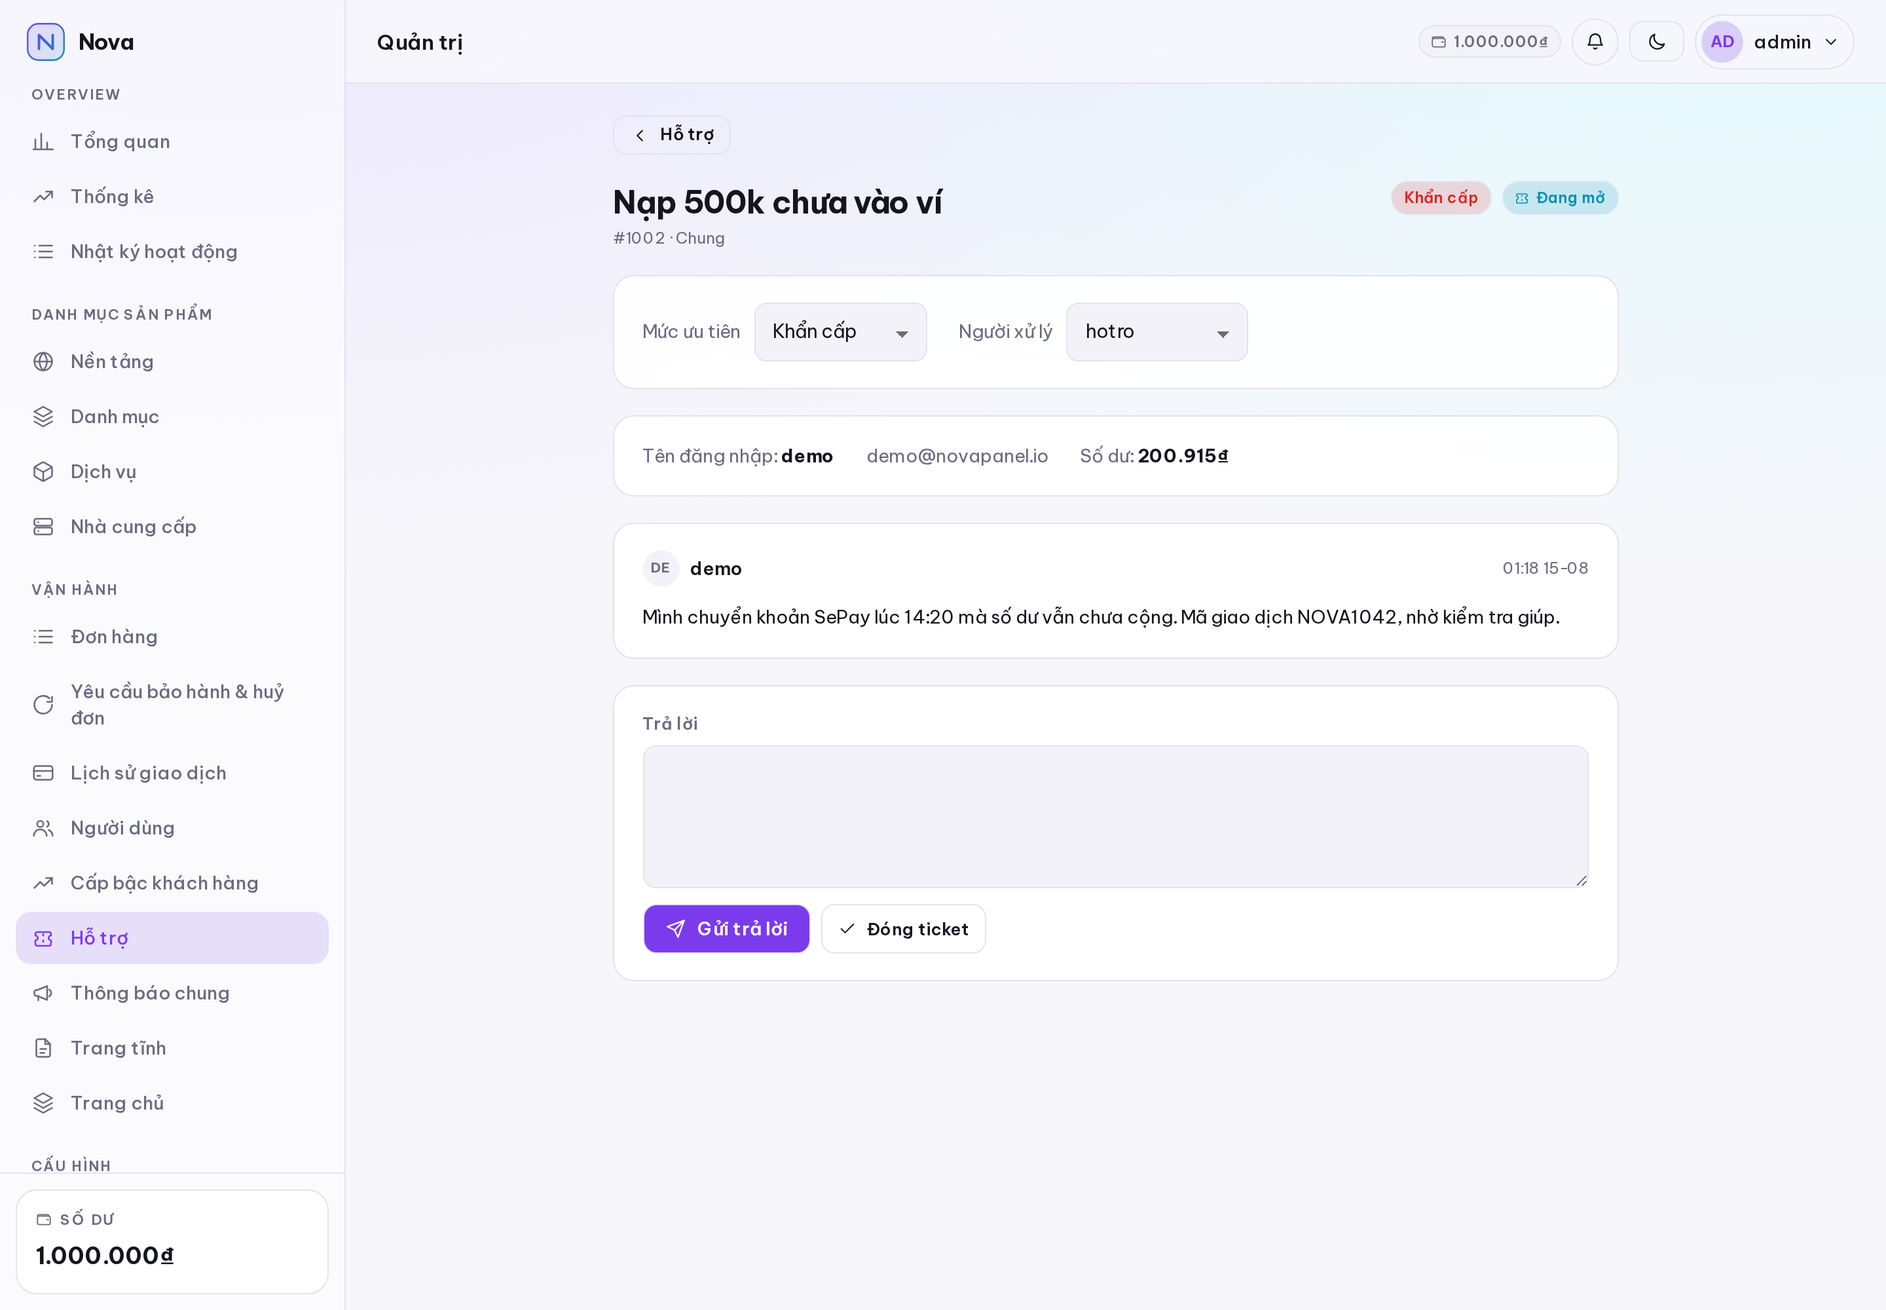
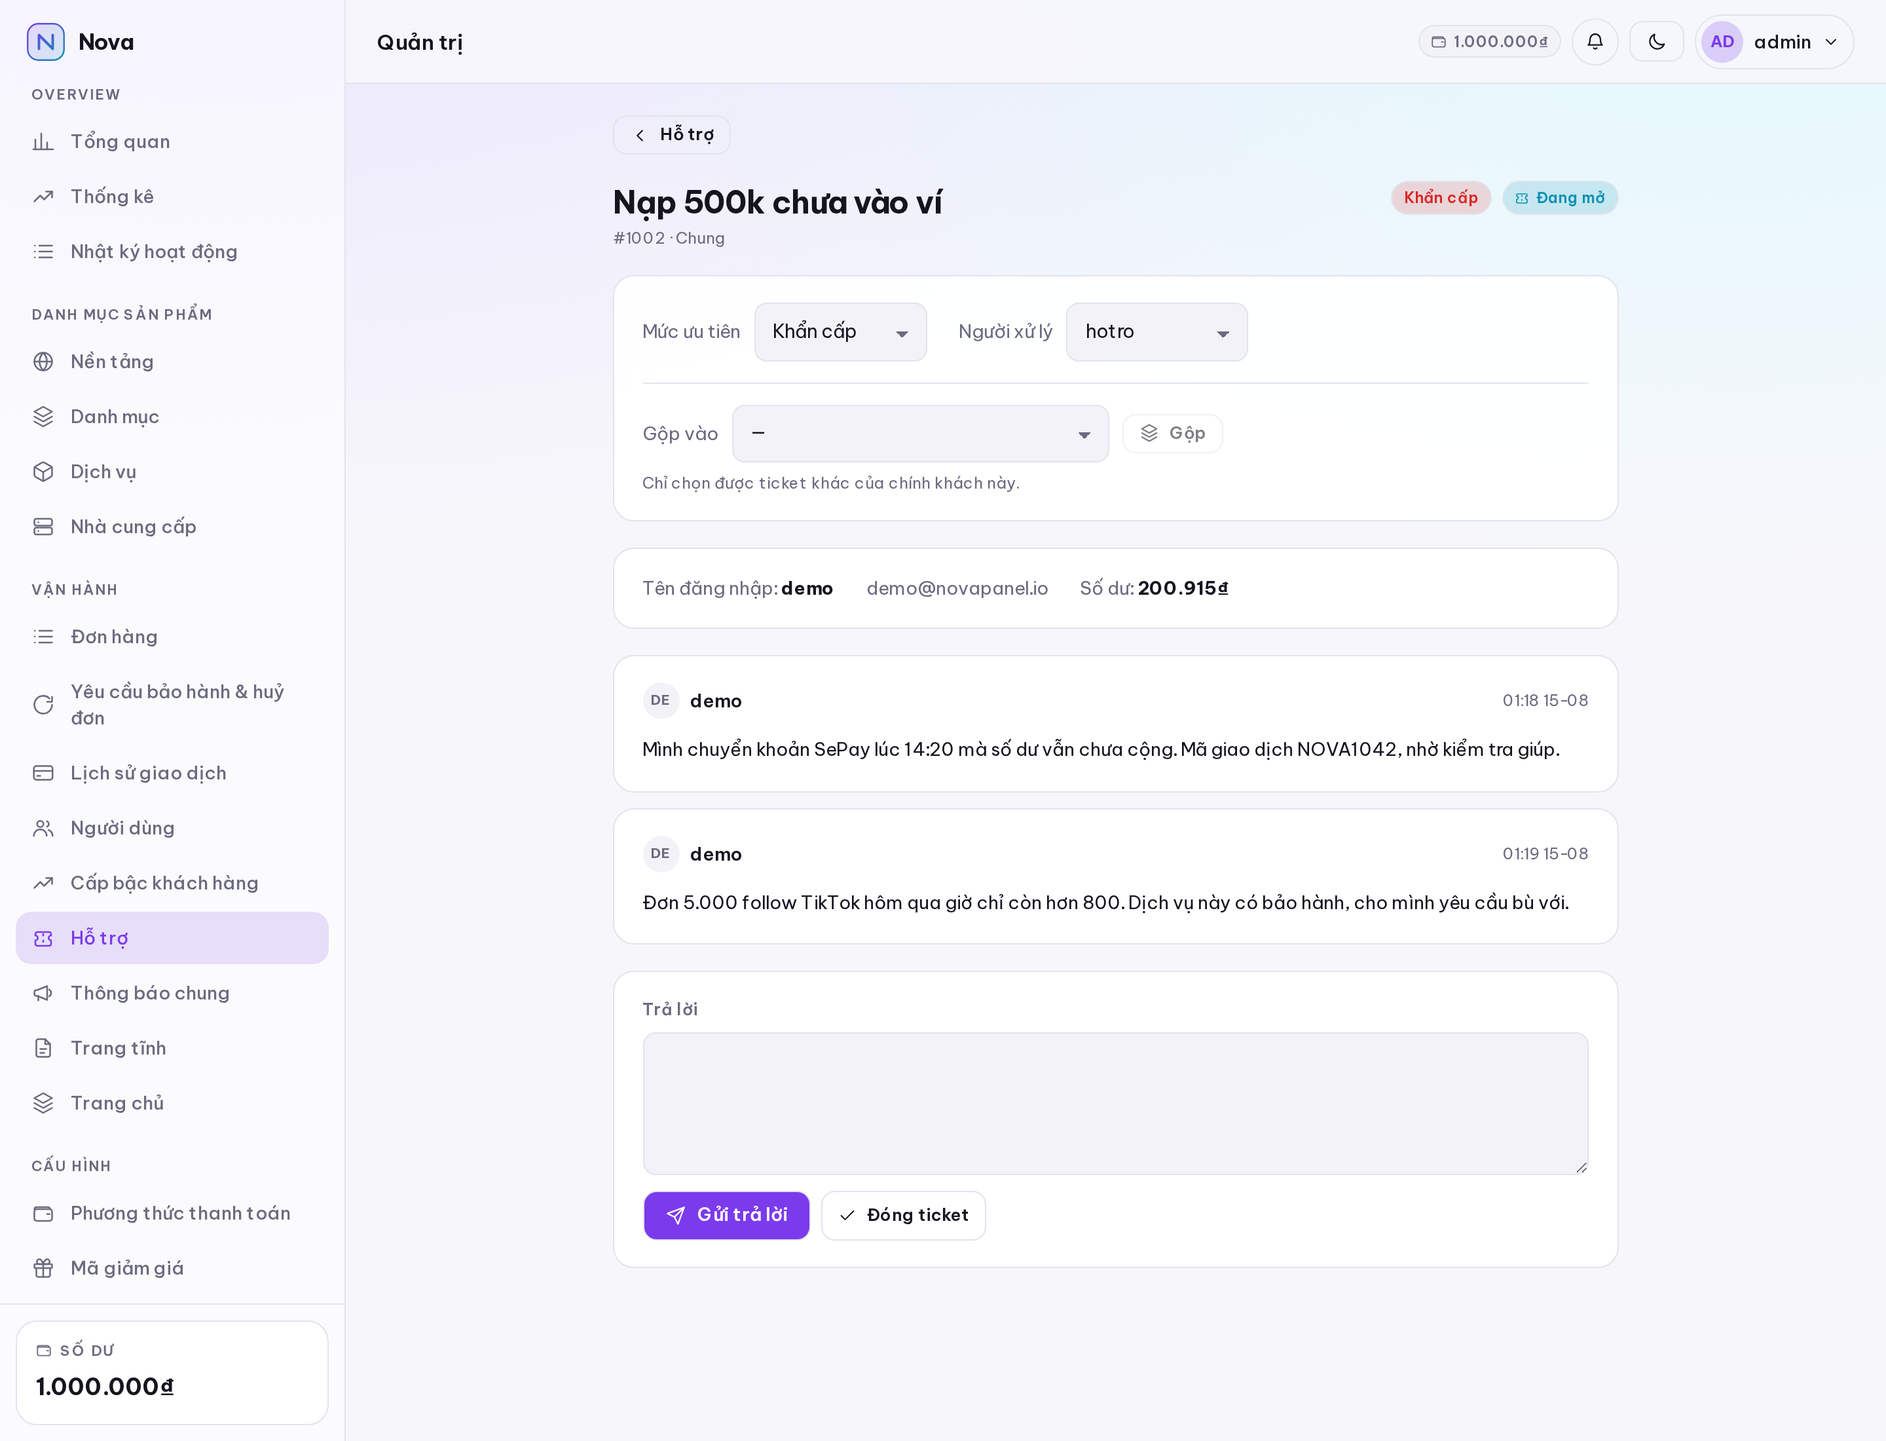
Fold duplicate tickets into one thread
A customer whose ticket goes quiet opens a second one. Support then
answers the same question twice, in two threads, and neither reads as
the whole conversation. The dev database had exactly that pair sitting
in it.

Support can now merge one ticket into another. The messages move, so the
thread reads in one place; the duplicate stays as a row, closed, with a
pointer to where its conversation went — the customer quoted that number
and has to keep finding the answer by it. Both the customer's page and
the admin's show the pointer above the thread rather than below, because
everything under it is history nobody will reply to.

Three judgements in the action:

- Only the same customer's tickets can be merged. This is the whole
  safety story: a support desk is where people paste order links,
  transaction references and phone numbers, and two customers in one
  thread would show each of them the other's. Verified against a
  tampered client that smuggled a foreign ticket id into the select —
  the server refused it and nothing moved.
- Merging into a closed ticket reopens it, or the merge quietly buries
  the question that was just asked.
- The target takes the higher of the two priorities, since it now
  carries both questions.

Merged duplicates drop out of the queue and out of its counts. They are
not work anyone should be handed.

diff --git a/src/lib/dictionaries.ts b/src/lib/dictionaries.ts
@@ -159,6 +159,7 @@ export const en = {
   "log.ticket.status": "Ticket status changed",
   "log.ticket.priority": "Ticket priority changed",
   "log.ticket.assign": "Ticket assigned",
+  "log.ticket.merge": "Tickets merged",
   "log.admin.balance.adjust": "Balance adjusted",
   "log.admin.deposit.approve": "Deposit approved",
   "log.admin.deposit.reject": "Deposit rejected",
@@ -370,6 +371,8 @@ export const en = {
   "notify.deposit.credited.body": "Deposit #{id} has been credited to your account.",
   "notify.deposit.pending.title": "Deposit #{id} is waiting for approval",
   "notify.deposit.pending.body": "The payment arrived. Approve it to credit the balance.",
+  "notify.ticket.merged.title": "Ticket #{id} moved",
+  "notify.ticket.merged.body": "It is now part of #{into}, where the answer will come.",
   "notify.ticket.assigned.title": "Ticket #{id} is yours",
   "notify.ticket.assigned.body": "{subject}",
   "notify.ticket.reply.title": "Reply on ticket #{id}",
@@ -474,6 +477,11 @@ export const en = {
   "err.ticketClosed": "This ticket is closed.",
   "err.priorityUnknown": "That is not a priority",
   "err.assigneeUnknown": "That is not a support account",
+  "err.mergeSelf": "A ticket cannot be merged into itself",
+  "err.mergeOtherUser": "Those tickets belong to different customers",
+  "err.mergeIntoMerged": "That ticket has already been merged into another one",
+  "err.mergeAlready": "This ticket has already been merged",
+
   "err.supportOnly": "Only support can change that.",
   "err.requestType": "Unknown request type",
   "err.orderGone": "That order no longer exists.",
@@ -1073,6 +1081,13 @@ export const en = {
   "support.staff": "Support",
   "support.closedNote": "This ticket is closed.",
   "support.disabled": "Support is currently unavailable.",
+  "support.merge.title": "Merge into",
+  "support.merge.none": "No other ticket from this customer",
+  "support.merge.action": "Merge",
+  "support.merge.confirm": "Move every message from this ticket into the one you picked? This cannot be undone.",
+  "support.merge.merged": "Merged into #{id}",
+  "support.merge.openTarget": "Open #{id}",
+  "support.merge.hint": "Only this customer's other tickets can be picked.",
   "support.assignee.title": "Handled by",
   "support.assignee.none": "Nobody yet",
   "support.assignee.mine": "Mine",
@@ -1350,6 +1365,7 @@ export const vi: Partial<Record<keyof typeof en, string>> = {
   "log.ticket.status": "Đổi trạng thái ticket",
   "log.ticket.priority": "Đổi mức ưu tiên ticket",
   "log.ticket.assign": "Giao ticket",
+  "log.ticket.merge": "Gộp ticket",
   "log.admin.balance.adjust": "Điều chỉnh số dư",
   "log.admin.deposit.approve": "Duyệt lệnh nạp",
   "log.admin.deposit.reject": "Từ chối lệnh nạp",
@@ -1560,6 +1576,8 @@ export const vi: Partial<Record<keyof typeof en, string>> = {
   "notify.deposit.credited.body": "Lệnh nạp #{id} đã được cộng vào tài khoản.",
   "notify.deposit.pending.title": "Lệnh nạp #{id} đang chờ duyệt",
   "notify.deposit.pending.body": "Tiền đã về. Duyệt để cộng vào số dư.",
+  "notify.ticket.merged.title": "Ticket #{id} đã chuyển",
+  "notify.ticket.merged.body": "Giờ nó nằm trong #{into}, câu trả lời sẽ ở đó.",
   "notify.ticket.assigned.title": "Ticket #{id} giao cho bạn",
   "notify.ticket.assigned.body": "{subject}",
   "notify.ticket.reply.title": "Phản hồi ticket #{id}",
@@ -1662,6 +1680,11 @@ export const vi: Partial<Record<keyof typeof en, string>> = {
   "err.ticketClosed": "Ticket này đã đóng.",
   "err.priorityUnknown": "Mức ưu tiên không hợp lệ",
   "err.assigneeUnknown": "Tài khoản này không phải nhân viên hỗ trợ",
+  "err.mergeSelf": "Không thể gộp ticket vào chính nó",
+  "err.mergeOtherUser": "Hai ticket này của hai khách khác nhau",
+  "err.mergeIntoMerged": "Ticket kia đã được gộp vào ticket khác rồi",
+  "err.mergeAlready": "Ticket này đã được gộp rồi",
+
   "err.supportOnly": "Chỉ bộ phận hỗ trợ mới đổi được.",
   "err.requestType": "Loại yêu cầu không hợp lệ",
   "err.orderGone": "Đơn này không còn tồn tại.",
@@ -2257,6 +2280,13 @@ export const vi: Partial<Record<keyof typeof en, string>> = {
   "support.staff": "Hỗ trợ",
   "support.closedNote": "Ticket này đã đóng.",
   "support.disabled": "Hệ thống hỗ trợ đang tạm ngưng.",
+  "support.merge.title": "Gộp vào",
+  "support.merge.none": "Khách này không có ticket nào khác",
+  "support.merge.action": "Gộp",
+  "support.merge.confirm": "Chuyển toàn bộ tin nhắn của ticket này sang ticket đã chọn? Không hoàn tác được.",
+  "support.merge.merged": "Đã gộp vào #{id}",
+  "support.merge.openTarget": "Mở #{id}",
+  "support.merge.hint": "Chỉ chọn được ticket khác của chính khách này.",
   "support.assignee.title": "Người xử lý",
   "support.assignee.none": "Chưa ai nhận",
   "support.assignee.mine": "Của tôi",

diff --git a/src/app/admin/tickets/[id]/page.tsx b/src/app/admin/tickets/[id]/page.tsx
@@ -9,6 +9,7 @@ import TicketThread from "@/components/tickets/ticket-thread";
 import StatusBadge from "@/components/ui/status-badge";
 import { Icon } from "@/components/icons";
 import TicketTriage from "@/components/tickets/ticket-triage";
+import MergeTicket from "@/components/tickets/merge-ticket";
 import { TICKET_PRIORITIES, priorityKey, priorityTone } from "@/lib/tickets";
 import { STAFF_ROLES } from "@/lib/two-factor";
 
@@ -30,10 +31,22 @@ export default async function AdminTicketPage({ params }: { params: Promise<{ id
     where: { id },
     include: {
       user: { select: { username: true, email: true, balance: true, publicId: true } },
+      mergedInto: { select: { id: true, publicId: true } },
+      mergedFrom: { select: { id: true, publicId: true } },
       messages: { orderBy: { createdAt: "asc" }, include: { author: { select: { username: true } } } },
     },
   });
   if (!ticket) notFound();
+
+  // Only this customer's other live tickets can be merged into, which is what
+  // the server enforces too — the list just avoids offering the impossible.
+  const mergeCandidates = ticket.mergedIntoId
+    ? []
+    : await db.ticket.findMany({
+        where: { userId: ticket.userId, id: { not: ticket.id }, mergedIntoId: null },
+        orderBy: { updatedAt: "desc" },
+        select: { id: true, publicId: true, subject: true },
+      });
 
   const fmtDate = { format: dates.stamp };
   const tone = priorityTone(ticket.priority);
@@ -60,7 +73,21 @@ export default async function AdminTicketPage({ params }: { params: Promise<{ id
         </div>
       </div>
 
-      <div className="card card-pad">
+      {/* Where the conversation went, said before anything else: everything
+          below it is history the customer will not get answers on. */}
+      {ticket.mergedInto && (
+        <div className="alert alert-info" role="status">
+          <Icon name="layers" size={16} />
+          <span>
+            {t("support.merge.merged", { id: ticket.mergedInto.publicId })}{" "}
+            <Link href={`/admin/tickets/${ticket.mergedInto.id}`} className="font-medium underline">
+              {t("support.merge.openTarget", { id: ticket.mergedInto.publicId })}
+            </Link>
+          </span>
+        </div>
+      )}
+
+      <div className="card card-pad space-y-4">
         <TicketTriage
           ticketId={ticket.id}
           priority={priorityKey(ticket.priority)}
@@ -74,6 +101,22 @@ export default async function AdminTicketPage({ params }: { params: Promise<{ id
           priorities={[...TICKET_PRIORITIES].reverse().map((p) => ({ key: p.key, label: t(`support.priority.${p.key}`) }))}
           staff={staff.map((u) => ({ key: u.id, label: u.username }))}
         />
+
+        {!ticket.mergedIntoId && (
+          <div className="border-t border-[var(--border)] pt-4">
+            <MergeTicket
+              ticketId={ticket.id}
+              candidates={mergeCandidates.map((c) => ({ id: c.id, label: `#${c.publicId} — ${c.subject}` }))}
+              labels={{
+                title: t("support.merge.title"),
+                none: t("support.merge.none"),
+                action: t("support.merge.action"),
+                confirm: t("support.merge.confirm"),
+                hint: t("support.merge.hint"),
+              }}
+            />
+          </div>
+        )}
       </div>
 
       <div className="card card-pad flex flex-wrap gap-x-6 gap-y-2 text-sm">

diff --git a/src/app/actions/tickets.ts b/src/app/actions/tickets.ts
@@ -210,3 +210,64 @@ export async function setTicketAssigneeAction(ticketId: string, assigneeId: stri
   revalidatePath(`/admin/tickets/${ticket.id}`);
   return {};
 }
+
+export async function mergeTicketAction(sourceId: string, targetId: string): Promise<TicketState> {
+  const t = await readerMessages();
+  const user = await getCurrentUser();
+  if (!user) return { error: t("err.sessionShort") };
+  if (!STAFF_ROLES.has(user.role)) return { error: t("err.supportOnly") };
+  if (sourceId === targetId) return { error: t("err.mergeSelf") };
+
+  const [source, target] = await Promise.all([
+    db.ticket.findFirst({ where: { id: sourceId }, include: { _count: { select: { messages: true } } } }),
+    db.ticket.findFirst({ where: { id: targetId } }),
+  ]);
+  if (!source || !target) return { error: t("err.ticketGone") };
+
+  // The one rule that matters. Two customers' threads in one ticket would
+  // show each of them the other's messages, and a support desk is exactly
+  // where people paste order links and transaction references.
+  if (source.userId !== target.userId) return { error: t("err.mergeOtherUser") };
+
+  // Merging into something already merged would leave the thread one hop
+  // further away than the pointer says.
+  if (target.mergedIntoId) return { error: t("err.mergeIntoMerged") };
+  if (source.mergedIntoId) return { error: t("err.mergeAlready") };
+
+  await db.$transaction([
+    // The messages move, so the conversation reads in one place.
+    db.ticketMessage.updateMany({ where: { ticketId: source.id }, data: { ticketId: target.id } }),
+    db.ticket.update({
+      where: { id: source.id },
+      data: { mergedIntoId: target.id, status: "closed" },
+    }),
+    db.ticket.update({
+      where: { id: target.id },
+      data: {
+        // Folding a live question into a closed ticket has to reopen it,
+        // otherwise the merge quietly buries the thing the customer asked.
+        ...(target.status === "closed" ? { status: "open" } : {}),
+        // Whichever was more urgent decides, because the merged ticket now
+        // carries both questions.
+        priority: Math.max(source.priority, target.priority),
+        updatedAt: new Date(),
+      },
+    }),
+  ]);
+
+  await db.notification.create({
+    data: notification({
+      userId: source.userId,
+      key: "ticket.merged",
+      params: { id: source.publicId, into: target.publicId },
+      href: `/dashboard/tickets/${target.id}`,
+    }),
+  });
+
+  await logActivity(user.id, "ticket.merge", `#${source.publicId} -> #${target.publicId}`);
+  revalidatePath("/admin/tickets");
+  revalidatePath(`/admin/tickets/${source.id}`);
+  revalidatePath(`/admin/tickets/${target.id}`);
+  revalidatePath("/dashboard/tickets");
+  return {};
+}

diff --git a/src/components/tickets/merge-ticket.tsx b/src/components/tickets/merge-ticket.tsx
@@ -1,0 +1,87 @@
+"use client";
+
+import { useState, useTransition } from "react";
+import { mergeTicketAction } from "@/app/actions/tickets";
+import { Icon } from "@/components/icons";
+
+/**
+ * Folding a duplicate into the real ticket.
+ *
+ * Customers open a second ticket when the first one goes quiet, so support
+ * ends up answering the same question in two threads. This moves the
+ * messages into one of them.
+ *
+ * The list only ever holds this customer's other tickets — the server checks
+ * that too, because a merge across two customers would show each of them the
+ * other's messages.
+ */
+export default function MergeTicket({
+  ticketId,
+  candidates,
+  labels,
+}: {
+  ticketId: string;
+  candidates: { id: string; label: string }[];
+  /** Named by the caller: a client component has no dictionary of its own. */
+  labels: { title: string; none: string; action: string; confirm: string; hint: string };
+}) {
+  const [target, setTarget] = useState("");
+  const [error, setError] = useState("");
+  const [pending, start] = useTransition();
+
+  if (!candidates.length) {
+    return (
+      <p className="muted text-sm">
+        {labels.title}: {labels.none}
+      </p>
+    );
+  }
+
+  function merge() {
+    if (!target || !confirm(labels.confirm)) return;
+    setError("");
+    start(async () => {
+      const result = await mergeTicketAction(ticketId, target);
+      if (result.error) setError(result.error);
+      // No success branch: a merge closes this ticket, and the page it is on
+      // re-renders showing where the conversation went.
+    });
+  }
+
+  return (
+    <div className="space-y-2">
+      <div className="flex flex-wrap items-center gap-2.5">
+        <label htmlFor="merge-target" className="muted text-sm">
+          {labels.title}
+        </label>
+        <select
+          id="merge-target"
+          className="field w-auto"
+          value={target}
+          disabled={pending}
+          onChange={(e) => setTarget(e.target.value)}
+        >
+          <option value="">—</option>
+          {candidates.map((c) => (
+            <option key={c.id} value={c.id}>
+              {c.label}
+            </option>
+          ))}
+        </select>
+        <button type="button" onClick={merge} disabled={!target || pending} className="btn btn-ghost btn-sm">
+          <Icon name="layers" size={15} />
+          {labels.action}
+        </button>
+      </div>
+
+      <p className="muted text-xs">{labels.hint}</p>
+
+      {error && (
+        <p className="flex items-center gap-1.5 text-sm text-[var(--danger)]" role="alert">
+          <Icon name="alert" size={15} />
+          {error}
+        </p>
+      )}
+    </div>
+  );
+}

diff --git a/src/app/dashboard/tickets/[id]/page.tsx b/src/app/dashboard/tickets/[id]/page.tsx
@@ -19,7 +19,10 @@ export default async function TicketPage({ params }: { params: Promise<{ id: str
 
   const ticket = await db.ticket.findFirst({
     where: { id, userId: user.id },
-    include: { messages: { orderBy: { createdAt: "asc" }, include: { author: { select: { username: true } } } } },
+    include: {
+      mergedInto: { select: { id: true, publicId: true } },
+      messages: { orderBy: { createdAt: "asc" }, include: { author: { select: { username: true } } } },
+    },
   });
   if (!ticket) notFound();
 
@@ -39,6 +42,20 @@ export default async function TicketPage({ params }: { params: Promise<{ id: str
         </div>
         <StatusBadge status={ticket.status} label={t(`support.status.${ticket.status}`)} />
       </div>
+
+      {/* The customer opened this one and will look for the answer here, so
+          the pointer comes before the thread rather than after it. */}
+      {ticket.mergedInto && (
+        <div className="alert alert-info" role="status">
+          <Icon name="layers" size={16} />
+          <span>
+            {t("support.merge.merged", { id: ticket.mergedInto.publicId })}{" "}
+            <Link href={`/dashboard/tickets/${ticket.mergedInto.id}`} className="font-medium underline">
+              {t("support.merge.openTarget", { id: ticket.mergedInto.publicId })}
+            </Link>
+          </span>
+        </div>
+      )}
 
       <TicketThread
         ticketId={ticket.id}

diff --git a/src/app/admin/tickets/page.tsx b/src/app/admin/tickets/page.tsx
@@ -24,6 +24,9 @@ export default async function AdminTicketsPage({
   const who = params.who === "mine" || params.who === "unclaimed" ? params.who : undefined;
 
   const where = {
+    // A merged ticket is a duplicate whose messages now live elsewhere, so it
+    // is not work anybody should be handed. It stays reachable by its number.
+    mergedIntoId: null,
     ...(status ? { status } : {}),
     ...(priority ? { priority: priority.value } : {}),
     ...(who === "mine" ? { assigneeId: ctx.user!.id } : {}),
@@ -44,10 +47,10 @@ export default async function AdminTicketsPage({
         _count: { select: { messages: true } },
       },
     }),
-    db.ticket.groupBy({ by: ["status"], _count: true }),
-    db.ticket.groupBy({ by: ["priority"], _count: true }),
-    db.ticket.count({ where: { assigneeId: ctx.user!.id } }),
-    db.ticket.count({ where: { assigneeId: null } }),
+    db.ticket.groupBy({ by: ["status"], where: { mergedIntoId: null }, _count: true }),
+    db.ticket.groupBy({ by: ["priority"], where: { mergedIntoId: null }, _count: true }),
+    db.ticket.count({ where: { assigneeId: ctx.user!.id, mergedIntoId: null } }),
+    db.ticket.count({ where: { assigneeId: null, mergedIntoId: null } }),
   ]);
 
   const fmtDate = { format: dates.stamp };
